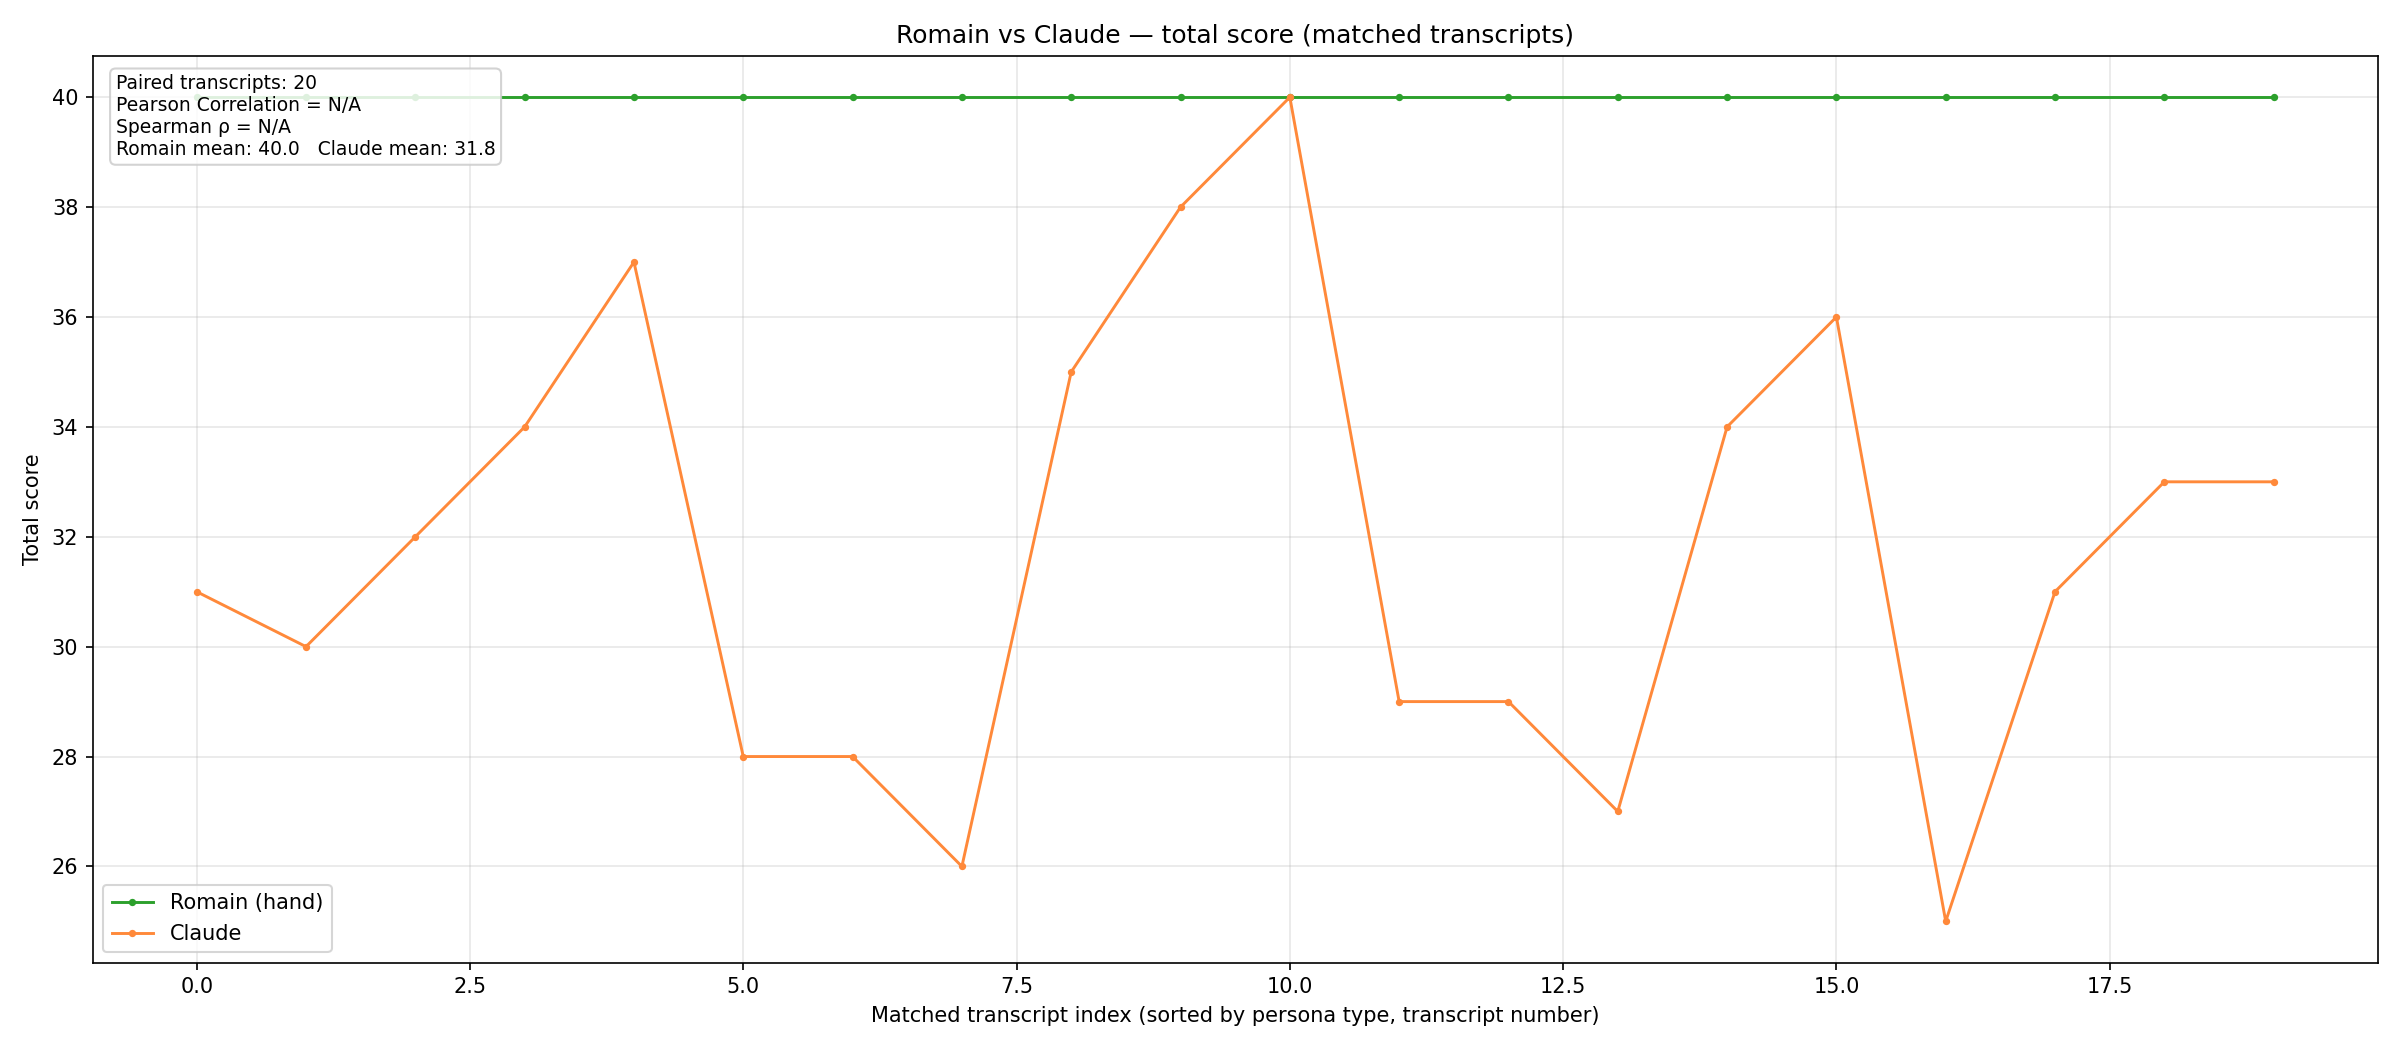
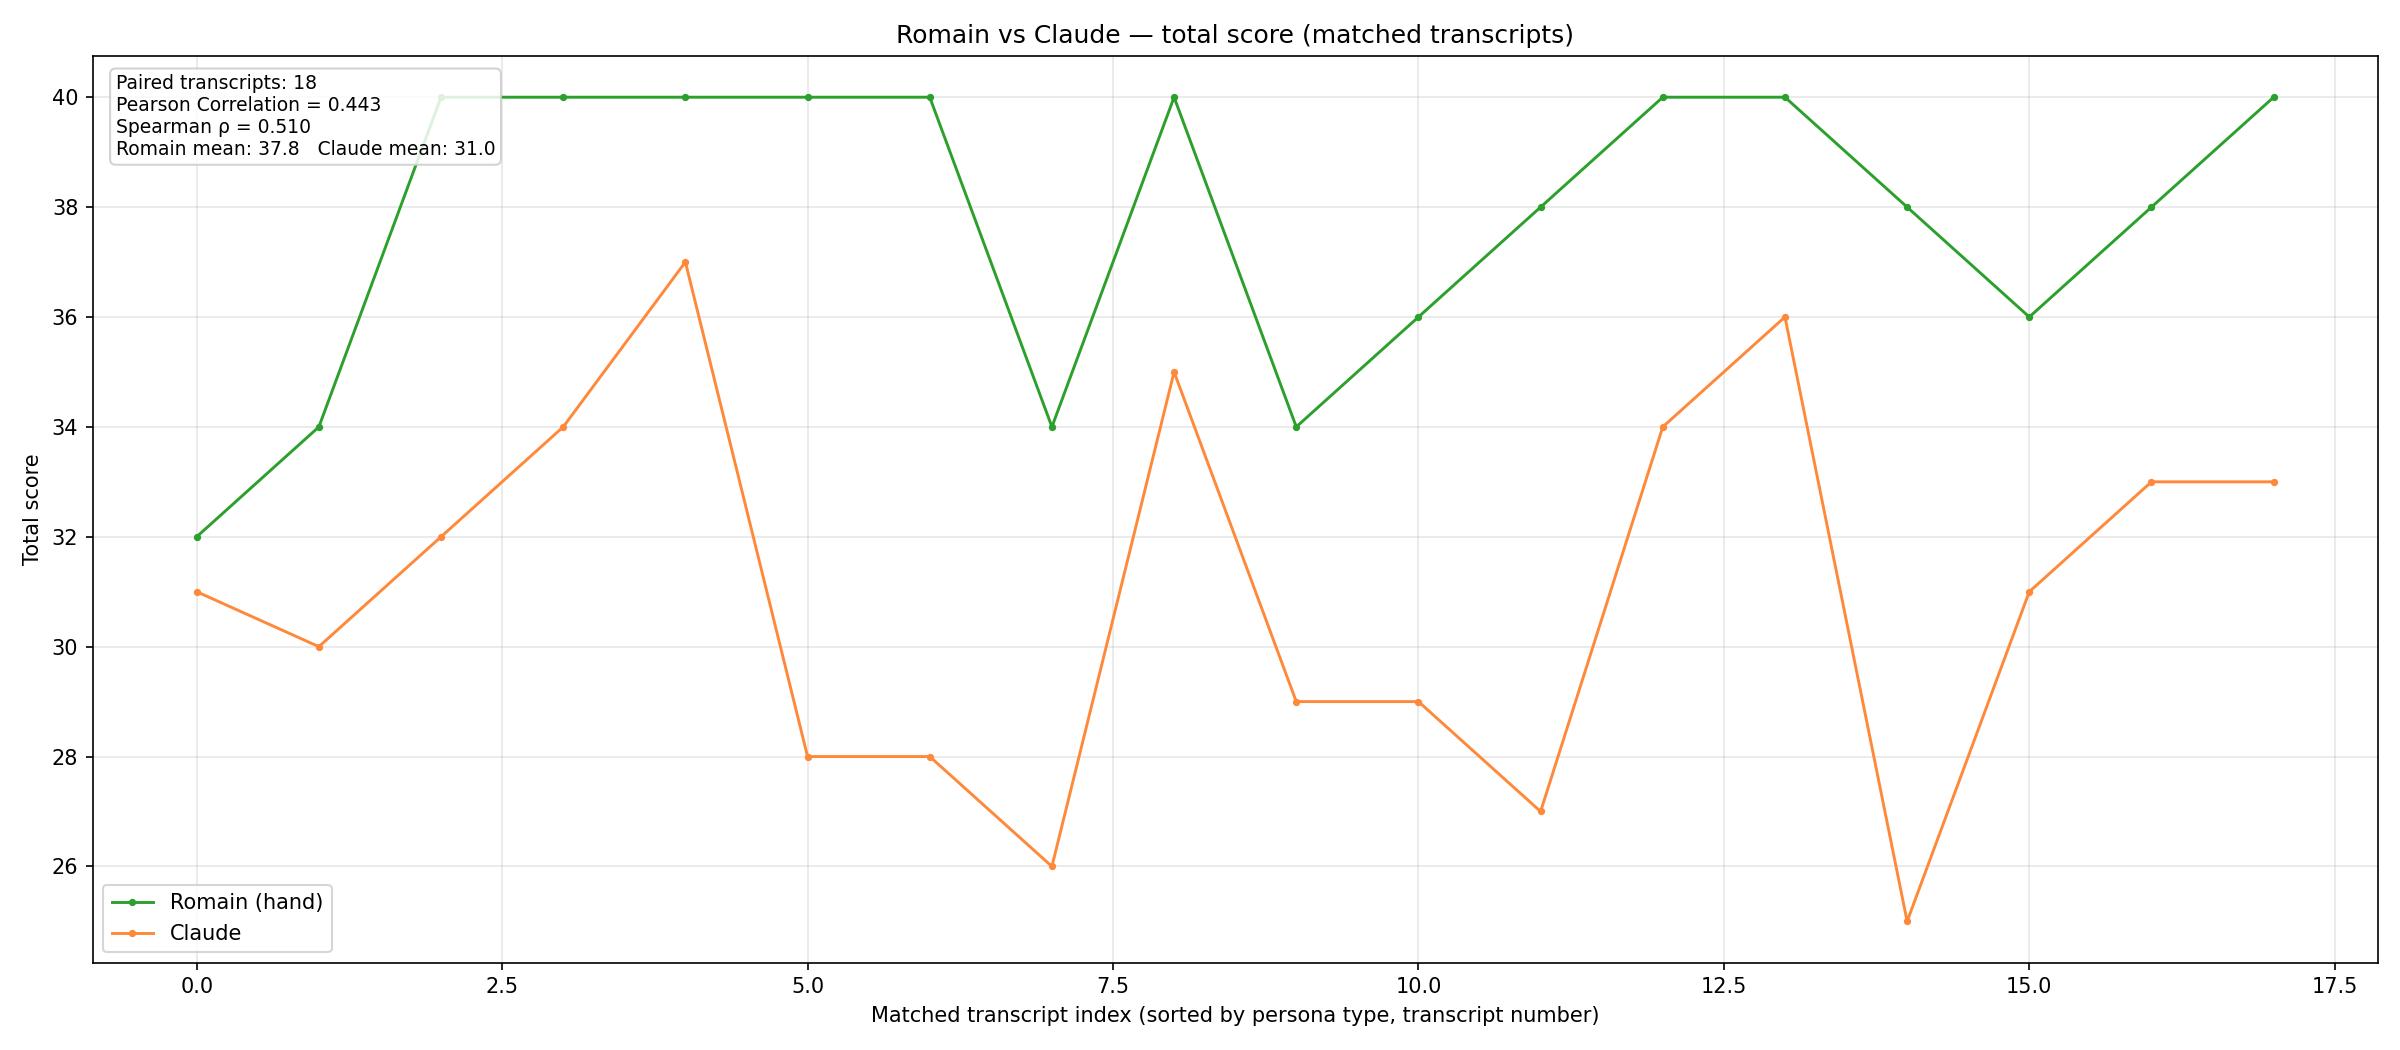
feat: added Romain's hand grading and visualized the graphs

diff --git a/visualization/run_visualization.py b/visualization/run_visualization.py
@@ -21,6 +21,11 @@ from dataclasses import dataclass, field
 from pathlib import Path
 from typing import Any
 
+# Romain hand vs Claude chart: drop these workbook rows (persona type, transcript number).
+ROMAIN_HAND_VS_CLAUDE_EXCLUDED: frozenset[tuple[str, int]] = frozenset(
+    {("chaotic", 228), ("chaotic", 243)}
+)
+
 
 # ---------------------------------------------------------------------------
 # Data model
@@ -271,7 +276,6 @@ def _read_hand_grade_rows(xlsx_path: Path, *, grader_name: str) -> list[HandGrad
     try:
         load_workbook = importlib.import_module("openpyxl").load_workbook
     except ModuleNotFoundError:
-        print("openpyxl not installed; skipping hand-grade comparison chart.")
         return []
 
     try:
@@ -1382,24 +1386,43 @@ def main() -> int:
             chart_idx += 1
 
     hand_grade_path = repo_root / "judge" / "hand_grade_workbook.xlsx"
-    for grader_key, grader_label in (
-        ("faizan", "Faizan"),
-        ("romain", "Romain"),
-        ("nishita", "Nishita"),
-    ):
-        hand_rows = _read_hand_grade_rows(hand_grade_path, grader_name=grader_key)
-        if hand_rows:
-            _chart_hand_grader_vs_claude(
-                hand_rows,
-                claude_all_rows,
-                out_dir,
-                grader_label=grader_label,
-                output_name=f"hand_grades_{grader_key}_vs_claude.png",
-                chart_idx=chart_idx,
-            )
-            chart_idx += 1
-        else:
-            print(f"No hand-grade rows for '{grader_key}' in {hand_grade_path.name}. Skipping {grader_key}_vs_claude chart.")
+    try:
+        importlib.import_module("openpyxl")
+    except ModuleNotFoundError:
+        print(
+            "Skipping hand vs Claude charts: openpyxl is not installed "
+            f"(cannot read {hand_grade_path.name}). Install with: pip install openpyxl"
+        )
+    else:
+        for grader_key, grader_label in (
+            ("faizan", "Faizan"),
+            ("romain", "Romain"),
+            ("nishita", "Nishita"),
+        ):
+            hand_rows = _read_hand_grade_rows(hand_grade_path, grader_name=grader_key)
+            if grader_key == "romain" and hand_rows:
+                hand_rows = [
+                    r
+                    for r in hand_rows
+                    if (r.persona_type.lower(), r.transcript_number)
+                    not in ROMAIN_HAND_VS_CLAUDE_EXCLUDED
+                ]
+            if hand_rows:
+                _chart_hand_grader_vs_claude(
+                    hand_rows,
+                    claude_all_rows,
+                    out_dir,
+                    grader_label=grader_label,
+                    output_name=f"hand_grades_{grader_key}_vs_claude.png",
+                    chart_idx=chart_idx,
+                )
+                chart_idx += 1
+            else:
+                print(
+                    f"No hand-grade rows for '{grader_key}' in {hand_grade_path.name} "
+                    f"(missing sheet '{grader_key} grading' / 'compiled grading', wrong headers, "
+                    "or no rows for that grader). Skipping chart."
+                )
 
     print(f"\n[Done] Charts saved to: {out_dir}")
     return 0

diff --git a/visualization/README.md b/visualization/README.md
@@ -16,7 +16,10 @@ Paths follow the current repo layout: one folder per persona family (`chaotic`, 
 
 ## Run
 
+Install dependencies (including **openpyxl** for Excel hand grades) from the repo root, then run:
+
 ```powershell
+pip install -r requirements.txt
 python -m visualization.run_visualization
 ```
 